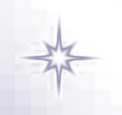
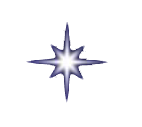
第四章

diff --git a/chapter4/Chapter-4.html b/chapter4/Chapter-4.html
@@ -9,7 +9,7 @@
 var scene, camera, renderer;
 scene = new THREE.Scene();
 camera = new THREE.PerspectiveCamera(50, window.innerWidth / window.innerHeight);
-camera.position.set(5,5,5);
+camera.position.set(3,3,3);
 camera.lookAt(new THREE.Vector3(0,0,0));
 scene.add(camera);
 
@@ -29,7 +29,7 @@ function pointsGenerator(num) {
 var texture = new THREE.TextureLoader().load("img/star.png");
 var points = pointsGenerator(1000);
 var material = new THREE.PointsMaterial({
-  size: 0.02,
+  size: 0.1,
   map:texture,
   /*blending: THREE.AdditiveBlending,
   depthTest: false,
